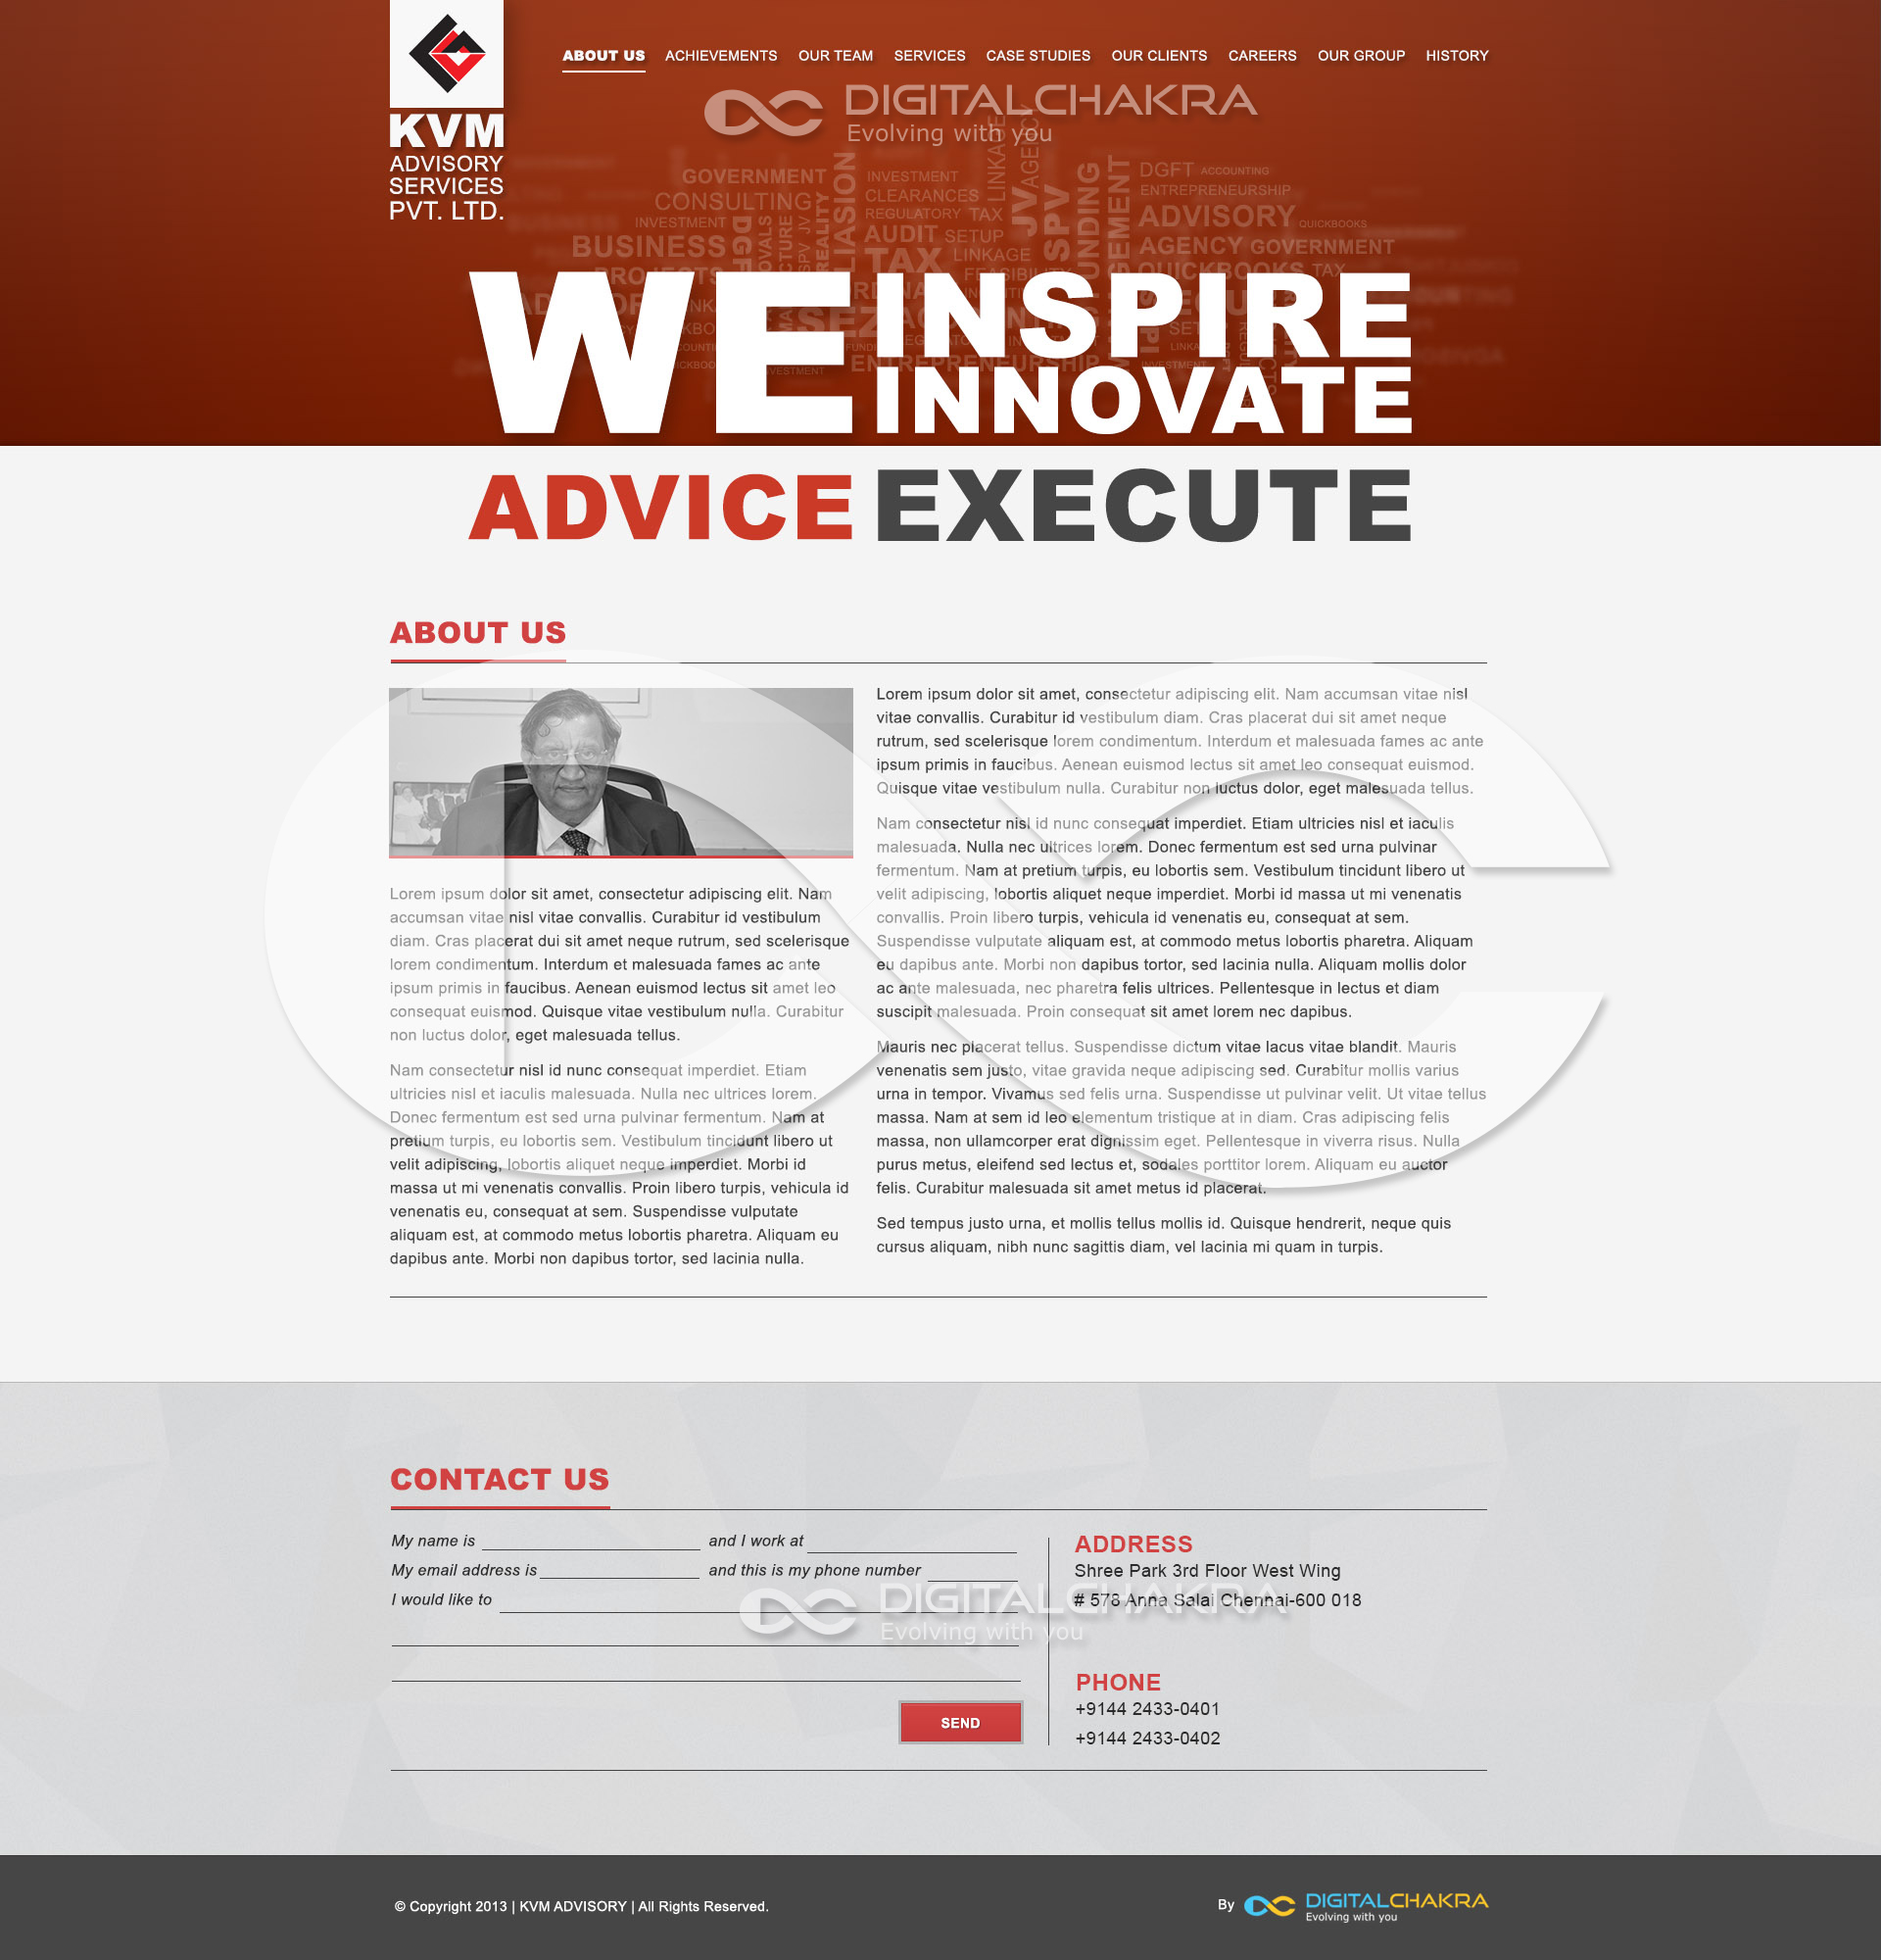
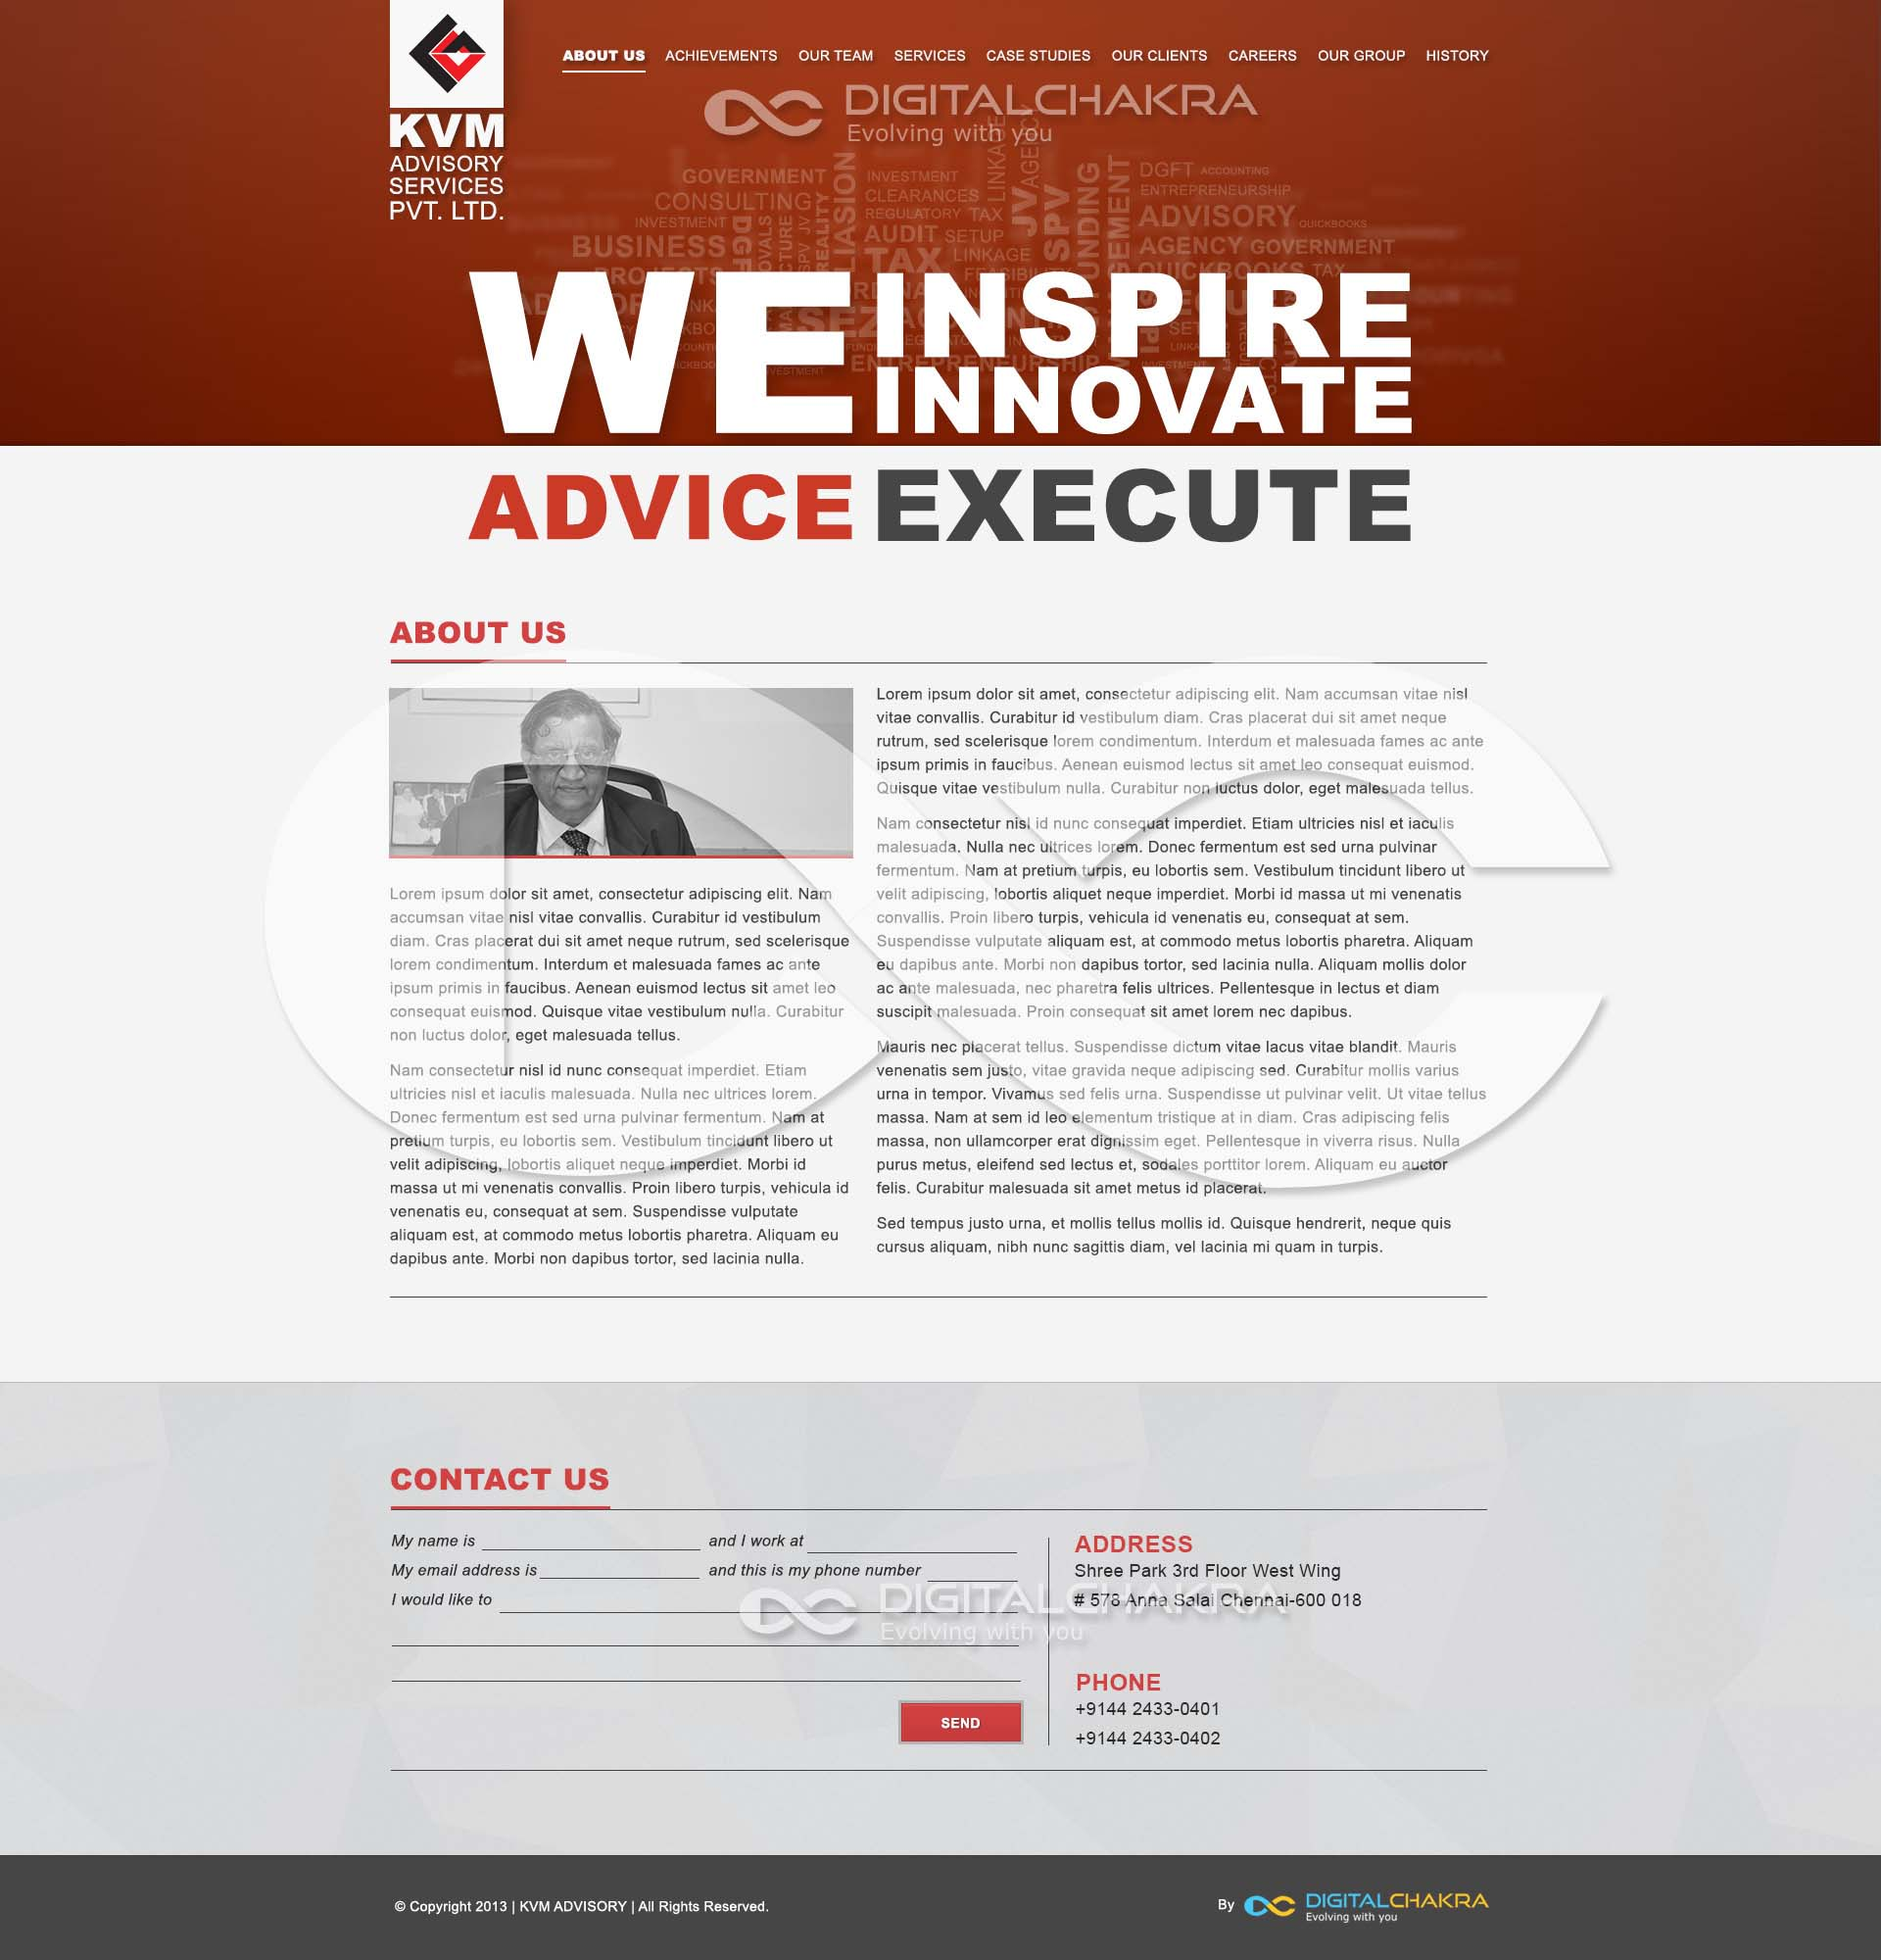
image size reduced

diff --git a/css/style.css b/css/style.css
@@ -188,7 +188,7 @@ color: #000!important; background-color: transparent!important; font-weight: bol
 .text1, .text2 {width: 83%;}
 .text3{margin: 0px; width:84%; height: 76px;}
 .text1, .text2, .text3{border-width: 0px 0px 1px; border-bottom-style: dotted; border-bottom-color: #000; color: #b7b7b7;}
-.btn_send{background: url(../img/sprites.png) -168px 0px no-repeat; width: 117px; height: 51px; border: 0px; text-indent: -9999px; cursor: pointer;}
+.btn_send{background: url(../img/sprites.png) -168px 0px no-repeat; width: 117px; height: 51px; border: 0px; text-indent: -9999px; cursor: pointer; float: right!important;}
 .btn_send:hover{background: url(../img/sprites.png) -287px 0px no-repeat; width: 117px; height: 51px; border: 0px; text-indent: -9999px; cursor: pointer;}
 .bg_white{background: #fff;}
 .view_map{position: absolute; bottom: 3%; right: 42%; font-weight: 700;}

diff --git a/css/media.css b/css/media.css
@@ -16,6 +16,16 @@
 	margin-left: auto!important;
 }
 
+@media (min-width: 260px) and (max-width: 600px){	
+	.width_601{
+		display: none!important;
+	}
+}
+@media (min-width: 601px) {
+	.width_360to600{
+		display: none!important;
+	}
+}
 @media (min-width: 360px) {
   .container {
 	   width: 100%!important;
@@ -243,6 +253,9 @@
 	}
 	.header_h2 p{
 		font-size: 20px;
+	}
+	.gmnoprint{
+		display: none!important;
 	}
 }
 @media (min-width: 560px) and (max-width: 992px){
